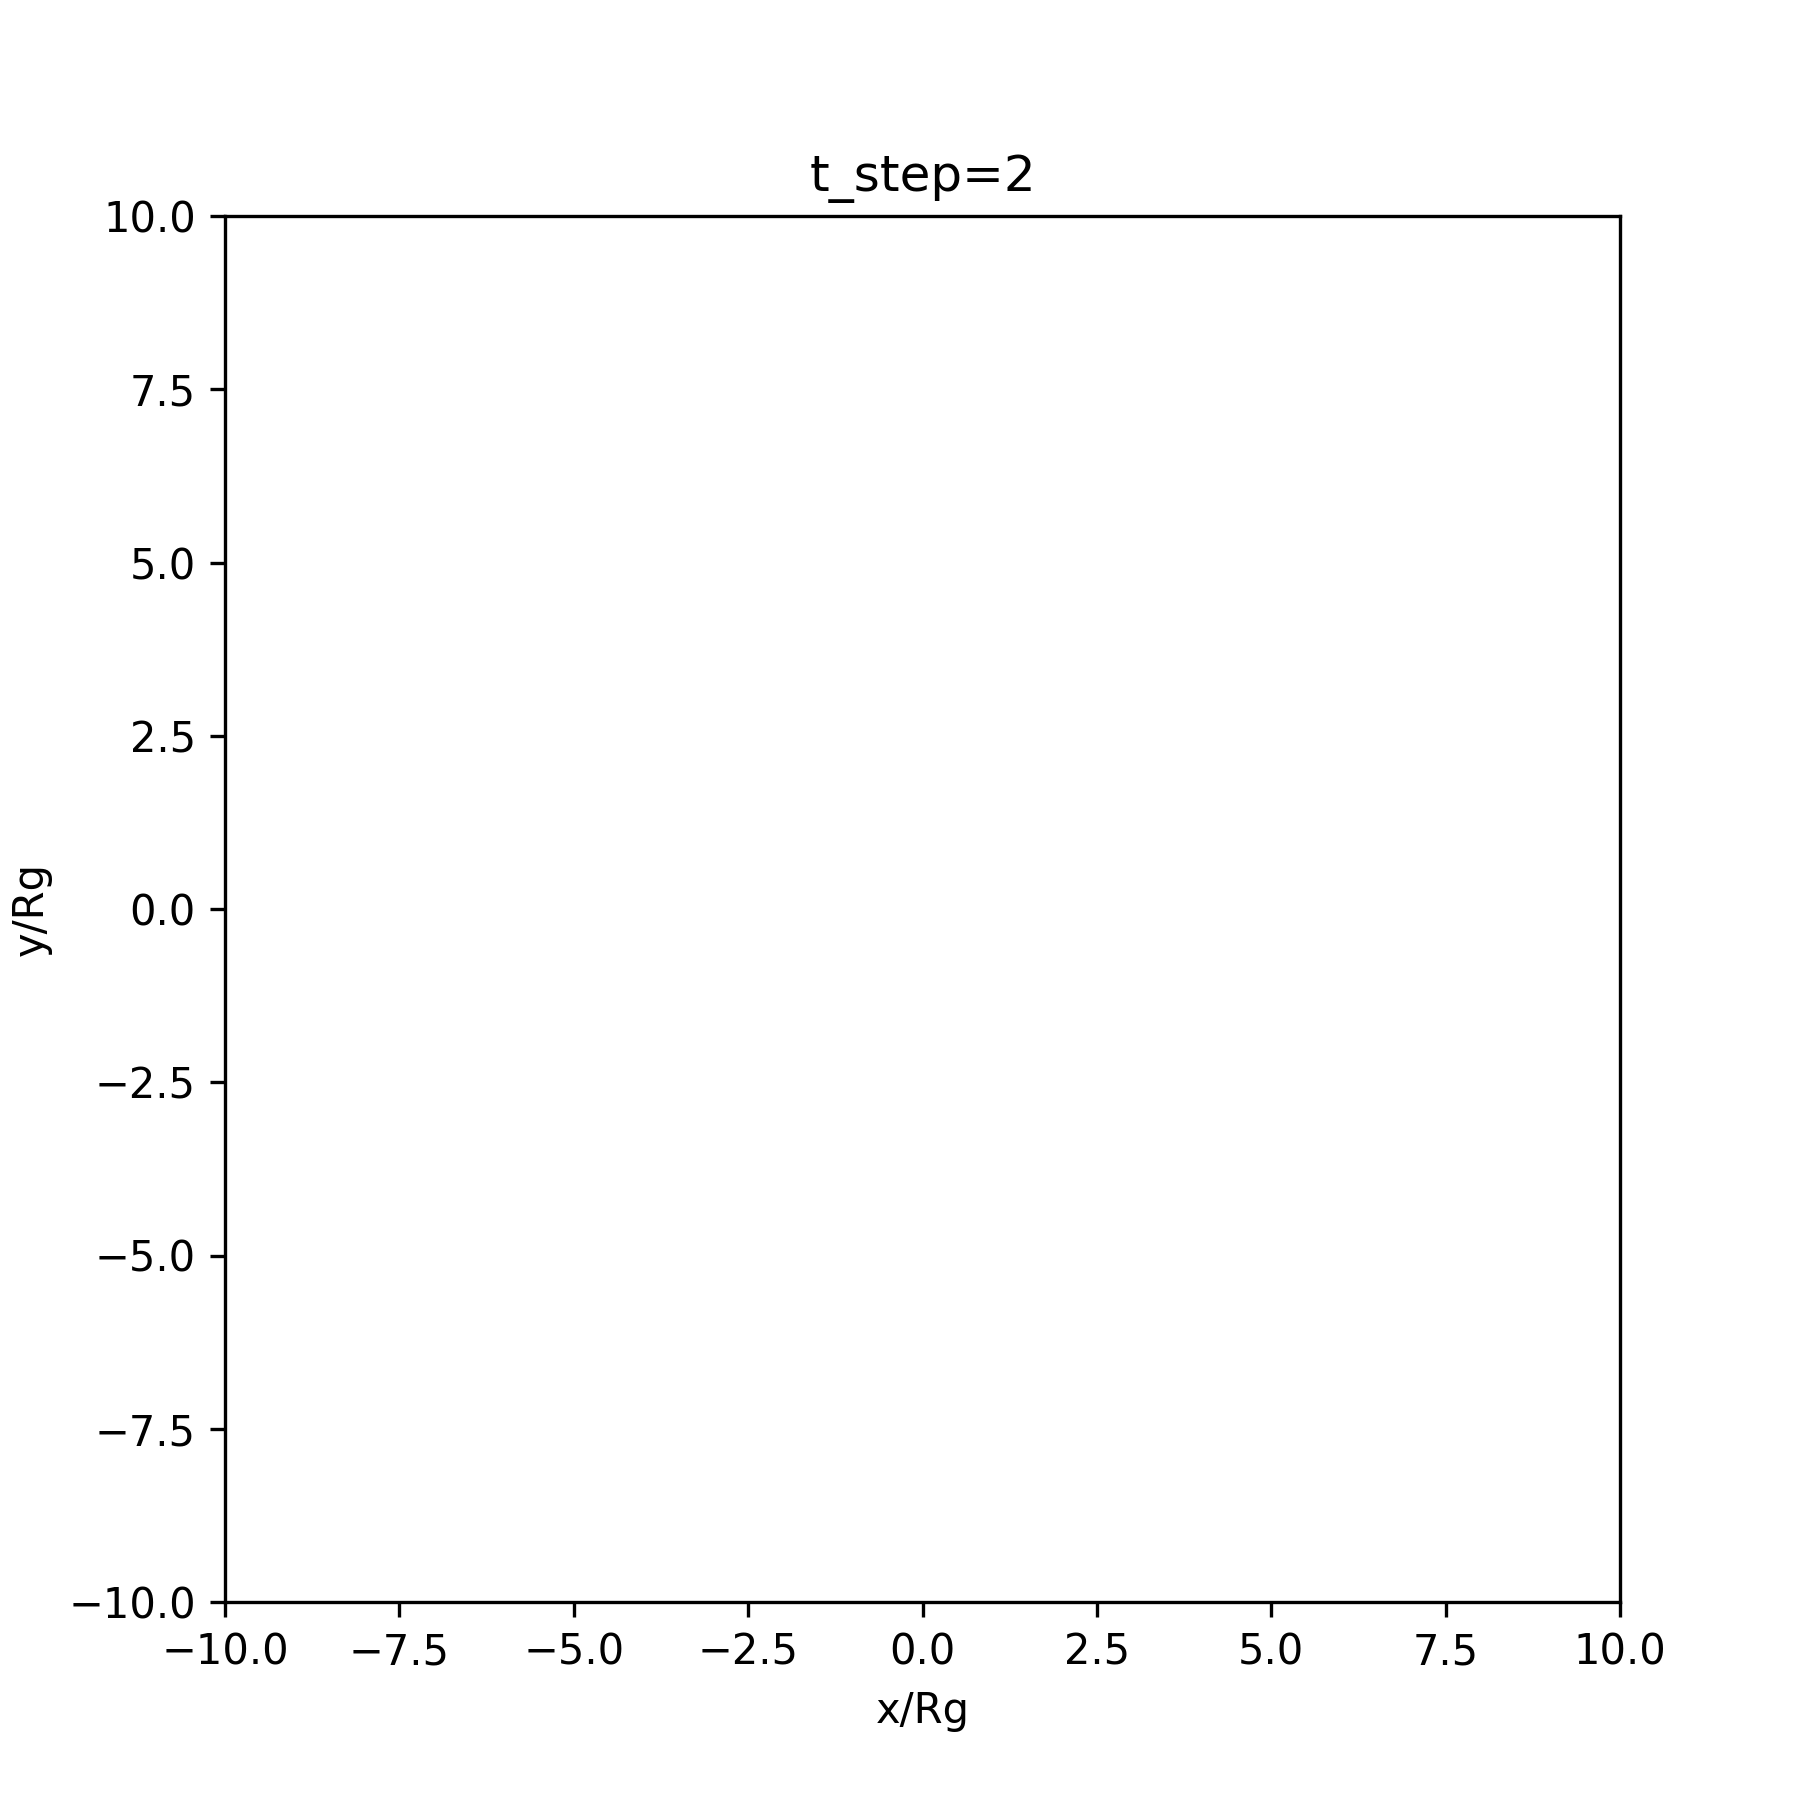
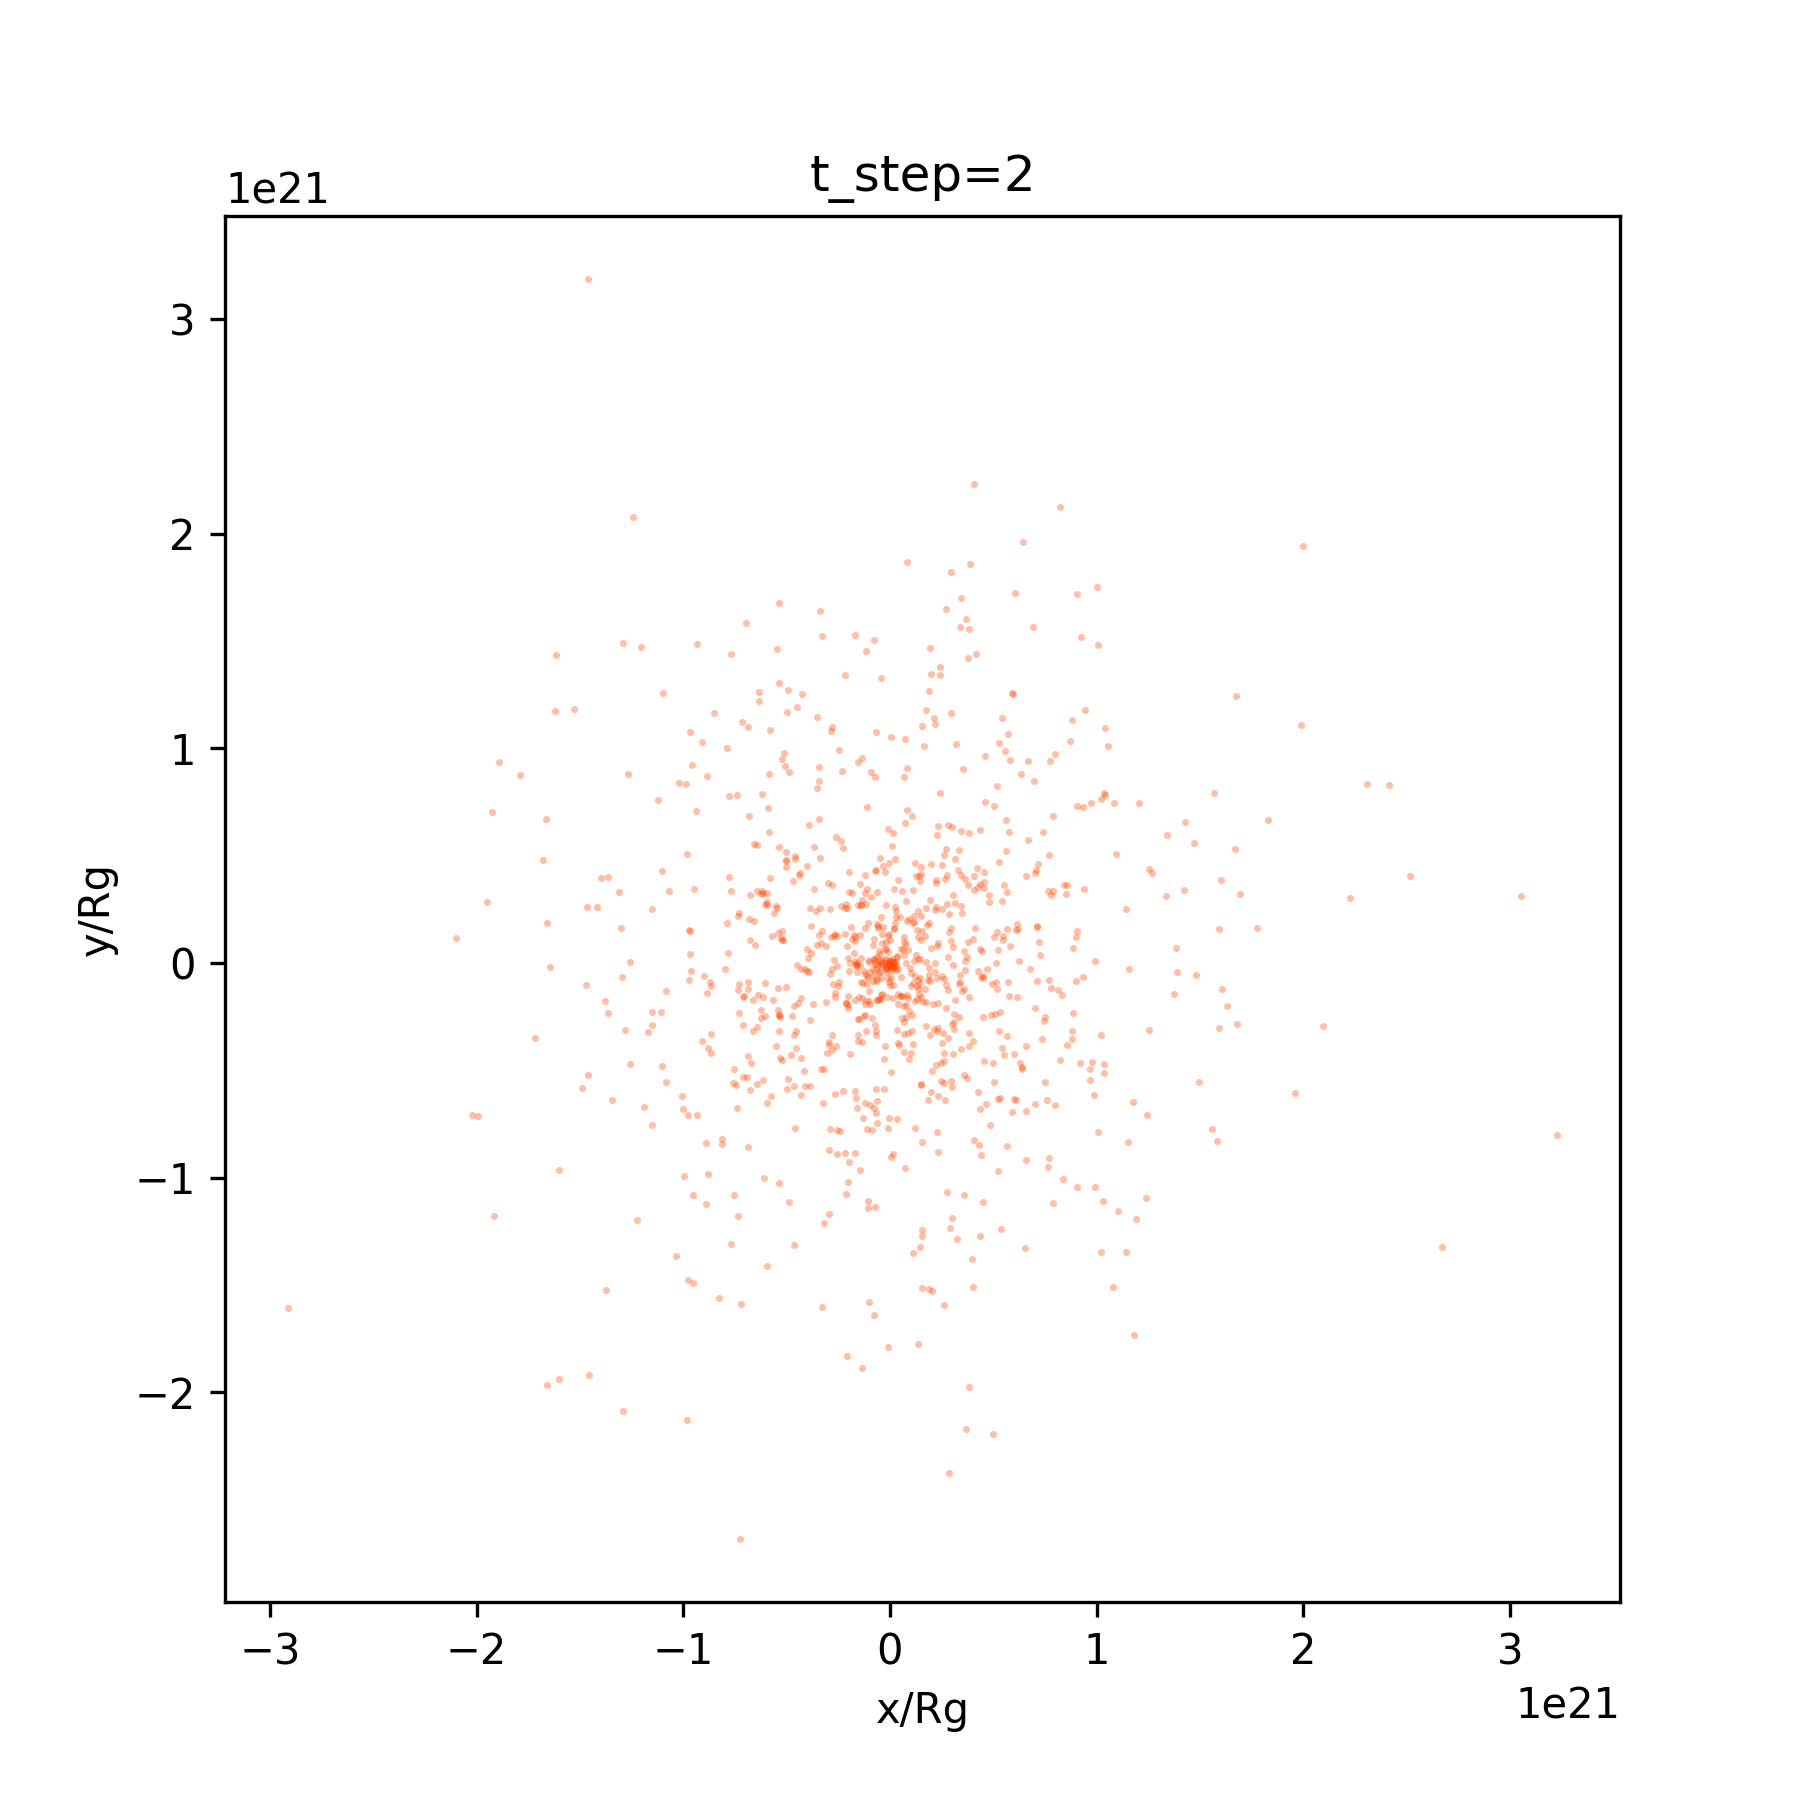
1st Potentially working star model

diff --git a/Code_star/functions/evolve_gal.py b/Code_star/functions/evolve_gal.py
@@ -1,6 +1,6 @@
 import numpy as np
 
-def getAcceleration(p, mp, n_dim, n_particle, G, Rg):
+def getAcceleration(p, v, mp, n_dim, n_particle, G, Rg):
     """
     Given an array of particle positions p(n_dim, n_particle),
     calculate the net acceleration at the location of each particle
@@ -9,21 +9,44 @@ def getAcceleration(p, mp, n_dim, n_particle, G, Rg):
 
     n_dim, n_particle = p.shape
     acc = np.zeros((n_dim, n_particle))
-    
-    # calculate the acceleration
-    # F_j = m_j * sum(i != j) G * m_i/r^3_ji = m_j * a_j
-    # So a_j = - sum(i != j) G * m_i/r^3_ji
+    grad_P = np.zeros((n_dim, n_particle))
+    grav = np.zeros((n_dim, n_particle))
 
+    #get some constants
+    h = 0.02*Rg
+    C = 5/(14*np.pi*h**2)
+    kappa = 1e-2
+    visc = 2e-3
+
+    #Calculate the acceleration
     for j in range(n_particle):
+        #some useful functions
+        r_j = np.sqrt(p[0,j]**2 + p[1,j]**2)
 
-        #Calculate the vector directions which are used in the equation
+        #The acceleration is : a_j = - grad_P - visc*v + g
+        # P gradient
+            # Smoothing kernel
+        r = np.sqrt((p[0,j]-p[0,:])**2 + (p[1,j]-p[1,:]))
+        q = abs(r - r_j)/h
+        W1 = [C*(2-q[np.where(q>=0 and q<1)])**3 - 4*(1-q[np.where(q>=0 and q<1)])**3]
+        W2 = [C*(2-q[np.where(q>=1 and q<2)])**3]
+        W = np.array(W1+W2)
+            
+            #sum
+        grad_P[0,j] = -2*kappa*sum(mp*W)
+        grad_P[1,j] = -2*kappa*sum(mp*W)
+
+        # Gravity
         r_ji_x = p[0,j]-p[0,:]
         r_ji_y = p[1,j]-p[1,:]
         r_ji = np.clip(np.sqrt((r_ji_x)**2 + (r_ji_y)**2), 0.1*Rg, None)
 
         #Get the acceleration
-        acc[0,j] = - G * sum((mp[:] / (r_ji)**3)*r_ji_x)
-        acc[1,j] = - G * sum((mp[:] / (r_ji)**3)*r_ji_y)
+        grav[0,j] = - G * sum((mp[:] / (r_ji)**3)*r_ji_x)
+        grav[1,j] = - G * sum((mp[:] / (r_ji)**3)*r_ji_y)
+
+    acc[0,:] = -grad_P[0,:] - visc*v[0,:] + grav[0,:]
+    acc[1,:] = -grad_P[1,:] - visc*v[1,:] + grav[1,:]
 
     return acc
 
@@ -35,11 +58,12 @@ def leapfrog(v, dt, acc, p, mp, n_dim, n_particle, G, Rg):
     #Update the parameters
     new_v = v + dt/2 * acc
     new_p = p + dt*new_v
-    new_acc = getAcceleration(new_p, mp, n_dim, n_particle, G, Rg)
+    new_acc = getAcceleration(new_p, new_v, mp, n_dim, n_particle, G, Rg)
     new_new_v = new_v + dt/2*new_acc
 
     #Reset for the next loop
     p = new_p
     v = new_new_v
     acc = new_acc
+    print(acc)
     return p, v, acc

diff --git a/Code_star/functions/make_gal.py b/Code_star/functions/make_gal.py
@@ -1,6 +1,6 @@
 import numpy as np
 
-def mkGalaxy2D(n_particle, R, M, n_dim):
+def mkGalaxy2D(n_particle, R, M, n_dim, G):
     """
     Here you should implement a routine that places particles in the XY-plane
     and assigns an initial velocity to each of them. It should return three
@@ -26,7 +26,25 @@ def mkGalaxy2D(n_particle, R, M, n_dim):
         #change the coordinates
     p[0,:] = r*np.cos(theta)
     p[1,:] = r*np.sin(theta)
-    
+
     #Mass particles
     mp[:] = M/n_particle
-    return p, v, mp
+
+    #Velocity
+    #calculate the mass inside radius r
+    M_r = np.array([i*(a+1) for a, i in enumerate(mp)])
+
+    v_temp = np.sqrt(G*M_r/abs(r))
+    v[0,:] = v_temp*np.cos(theta)
+    v[1,:] = v_temp*np.sin(theta)
+
+    #Initial kernel smoothing function
+    for j in range(n_particle):
+        r_j = np.sqrt(p[0,j]**2 + p[1,j]**2)
+        r = np.sqrt((p[0,j]-p[0,:])**2 + (p[1,j]-p[1,:]))
+        h = 3
+        q = abs(r - r_j)/h
+        C = 5/(14*np.pi*h**2)
+        W = np.array([(2-a)**3 - 4*(1-a)**3 for a in q<1]+[(2-q)**3 for a in q>=1 and q<2])
+            
+    return p, v, mp, W

diff --git a/Code_gals/main.py b/Code_gals/main.py
@@ -1,12 +1,15 @@
 import os
+import sys
 import matplotlib.pyplot as plt; plt.ion()
 
-from Code_gals.params import *
-from Code_gals.functions.make_gal import mkGalaxy2D, InitialConditions
-from Code_gals.functions.evolve_gal import getAcceleration, leapfrog
-from Code_gals.functions.plots import ini_plots, update_plots
-
 plt.ion()
+sys.path.append("C:\\Users\\User\\Documents\\Documents\\University\\Master_SU\\Year_1\\IIB\\CompAstro\\Projects\\Project1\\Code_gals")
+
+from params import *
+from functions.make_gal import mkGalaxy2D, InitialConditions
+from functions.evolve_gal import getAcceleration, leapfrog
+from functions.plots import ini_plots, update_plots
+
 
 
 if __name__ == "__main__": # main program, not executed if you import this file

diff --git a/Code_star/main.py b/Code_star/main.py
@@ -18,8 +18,9 @@ if __name__ == "__main__": # main program, not executed if you import this file
     os.makedirs(path+'nbody_output', exist_ok=True)
     
     # Initialisation of the model
-    p, v, mp = mkGalaxy2D(n_star_1, M_1, R_1, n_dim) #positions, velocity, particle mass
-    acc = getAcceleration(p, mp, n_dim, n_star_1, G, Rsun) #acceleration
+    p, v, mp = mkGalaxy2D(n_star_1, M_1, R_1, n_dim, G) #positions, velocity, particle mass
+
+    acc = getAcceleration(p, v, mp, n_dim, n_star_1, G, Rsun) #acceleration
 
     # Evolution of the model
     k = 0           #steps
